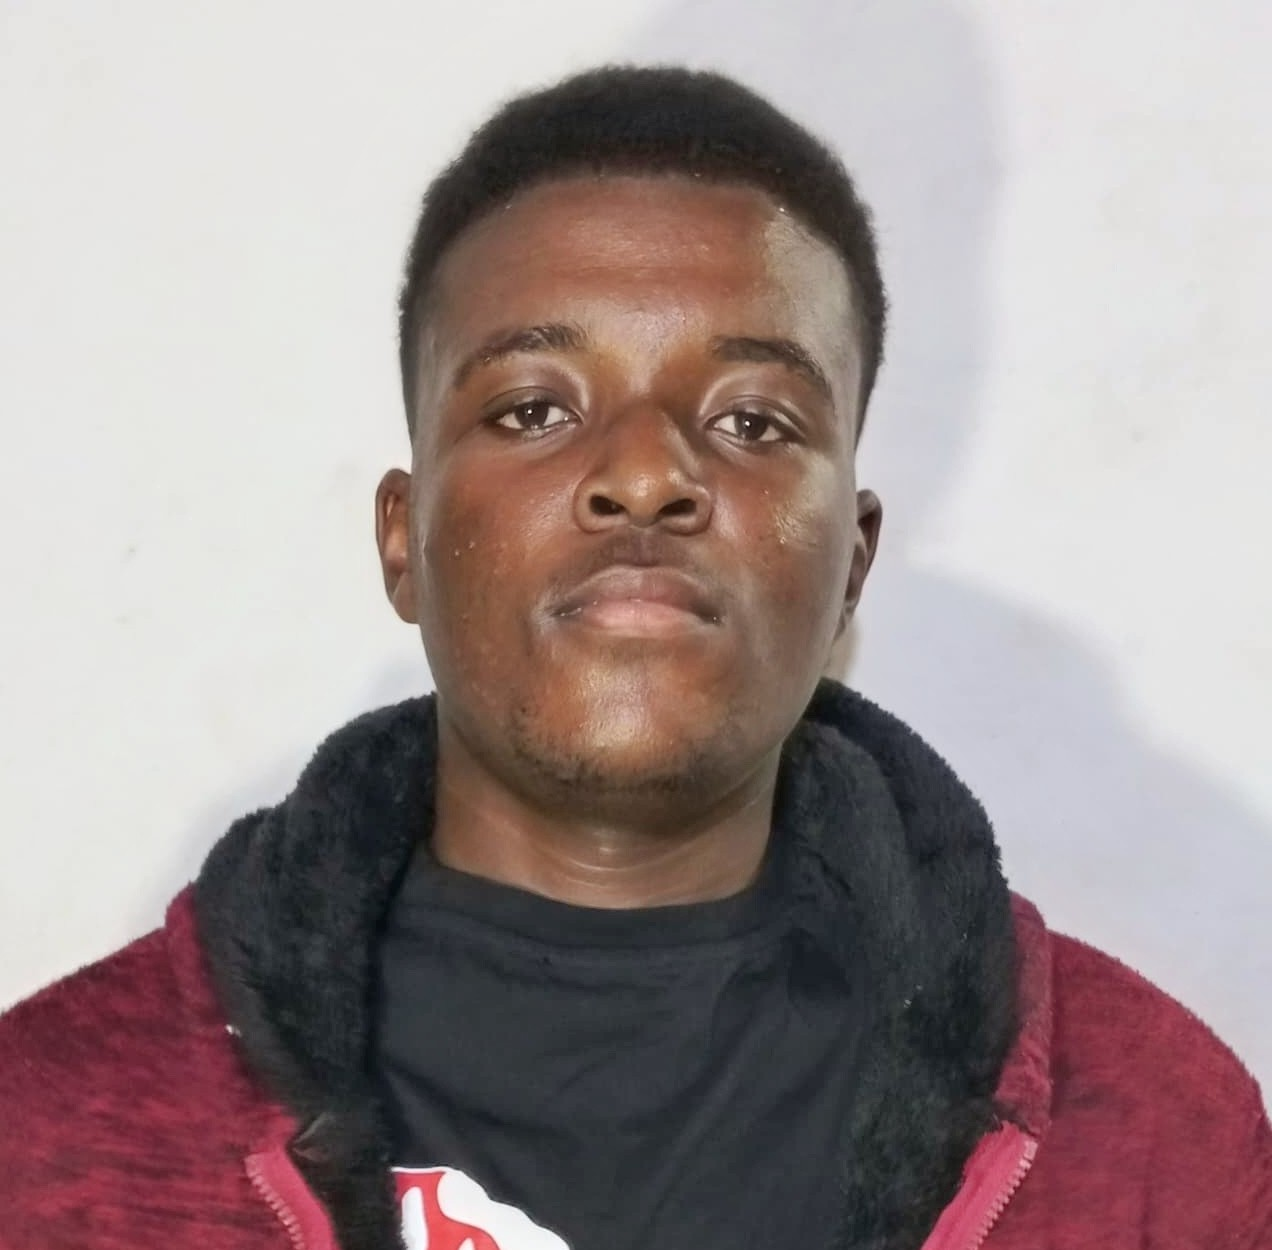
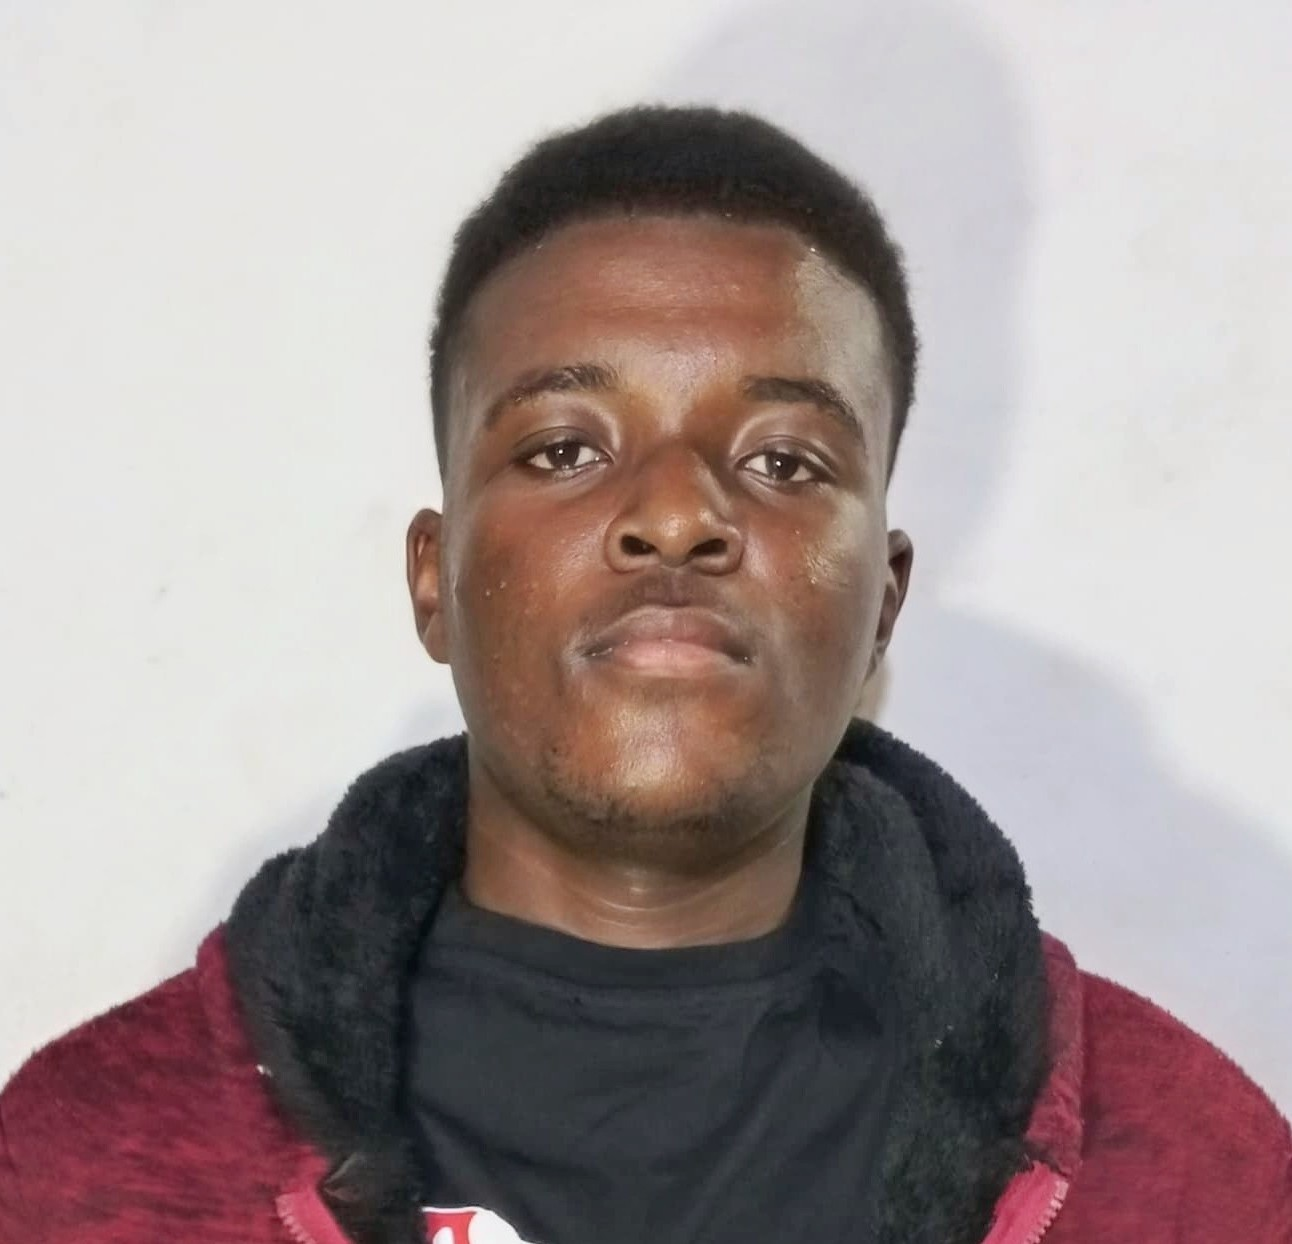
feat/projet: Ajout des images

diff --git a/projet.html b/projet.html
@@ -77,7 +77,7 @@
         <section>
             <div>
                 <div>
-                    <img src="img/portfolio.png" alt="Portfolio">
+                    <img src="img/portfolio.png" class="w-[30rem] h-[25rem]" alt="Portfolio">
                 </div>
                 <div>
                     <div>
@@ -99,7 +99,7 @@
             </div> 
             <div>
                 <div>
-                    <img src="img/tech.png" alt="Tech">
+                    <img src="img/techcompter.png" alt="Tech">
                 </div>
                 <div>
                     <i class="fa-solid fa-cart-shopping"></i>
